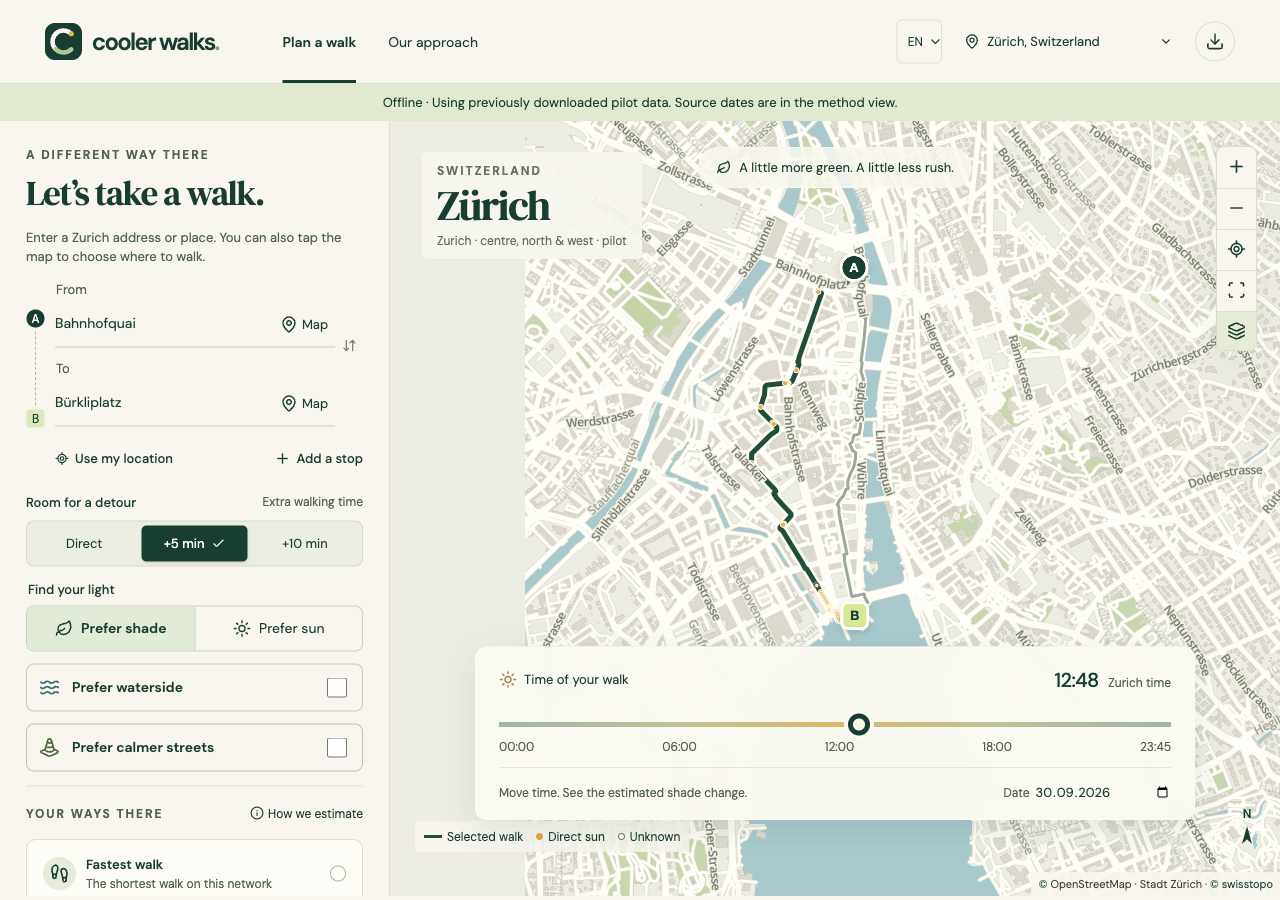
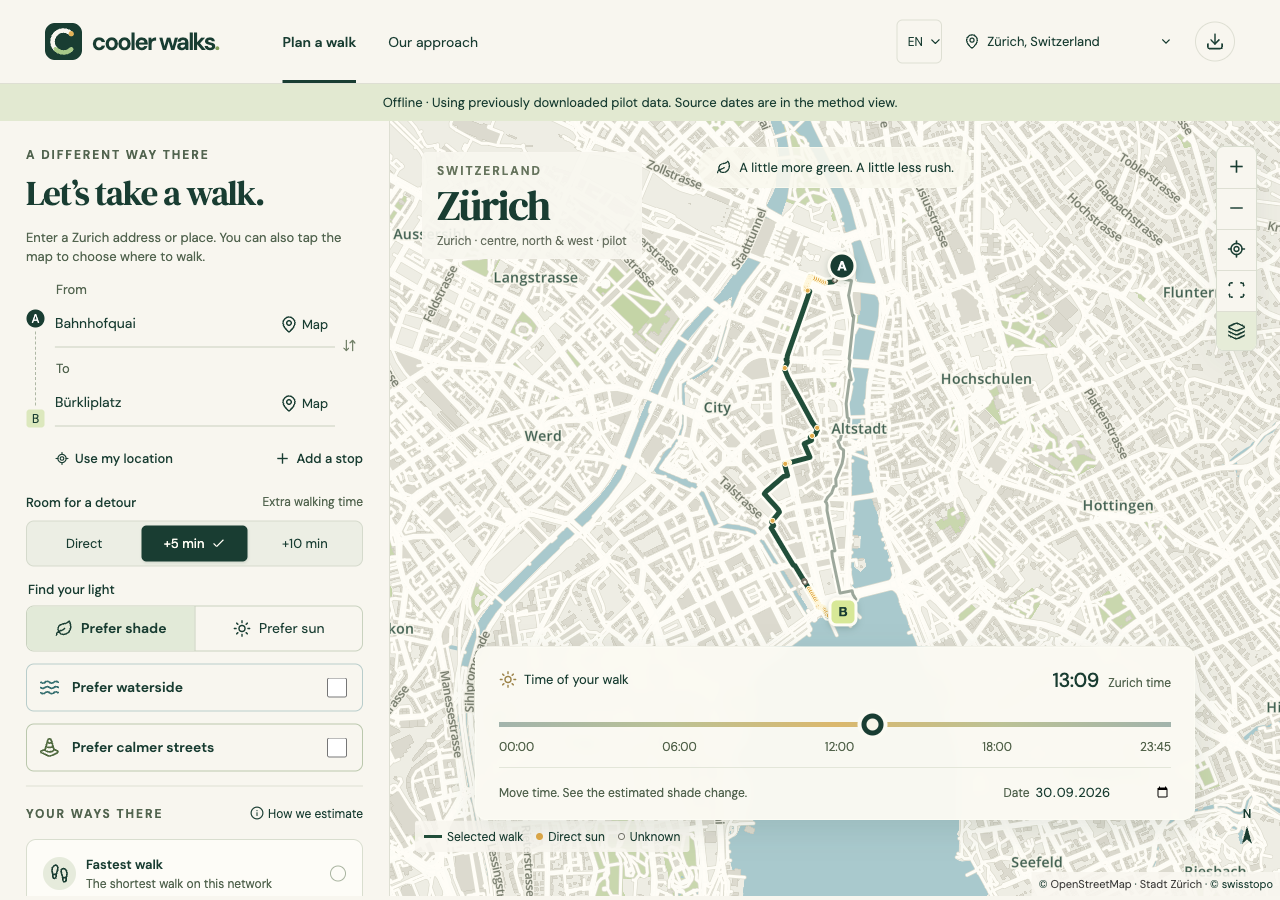
Render city overviews efficiently and shard browser regression checks

diff --git a/src/components/Map.tsx b/src/components/Map.tsx
@@ -132,13 +132,61 @@ export function WalkingMap({
             {
               id: 'building',
               type: 'fill',
+              minzoom: 14,
               source: 'base',
               filter: ['==', ['get', 'kind'], 'building'],
               paint: { 'fill-color': '#dcdacf', 'fill-outline-color': '#d1cfc2' },
             },
+            // At city scale, show the street structure without constructing
+            // building/path buckets for every block in the full coverage area.
+            ...(['overview-road-case', 'overview-roads'] as const).map((id) => ({
+              id,
+              type: 'line' as const,
+              source: 'base',
+              maxzoom: 14,
+              filter: [
+                'all',
+                ['==', ['get', 'kind'], 'road'],
+                [
+                  'in',
+                  ['get', 'highway'],
+                  [
+                    'literal',
+                    [
+                      'motorway',
+                      'motorway_link',
+                      'trunk',
+                      'trunk_link',
+                      'primary',
+                      'primary_link',
+                      'secondary',
+                      'secondary_link',
+                      'tertiary',
+                      'tertiary_link',
+                      'residential',
+                      'unclassified',
+                      'living_street',
+                    ],
+                  ],
+                ],
+              ] as maplibregl.FilterSpecification,
+              paint: {
+                'line-color': id === 'overview-road-case' ? '#dddccf' : '#fffdf7',
+                'line-width': [
+                  'interpolate',
+                  ['linear'],
+                  ['zoom'],
+                  11,
+                  id === 'overview-road-case' ? 1.5 : 0.6,
+                  14,
+                  id === 'overview-road-case' ? 4 : 2.5,
+                ] as maplibregl.ExpressionSpecification,
+              },
+            })),
             {
               id: 'road-case',
               type: 'line',
+              minzoom: 14,
               source: 'base',
               filter: ['==', ['get', 'kind'], 'road'],
               layout: { 'line-cap': 'round', 'line-join': 'round' },
@@ -150,6 +198,7 @@ export function WalkingMap({
             {
               id: 'roads',
               type: 'line',
+              minzoom: 14,
               source: 'base',
               filter: ['==', ['get', 'kind'], 'road'],
               layout: { 'line-cap': 'round', 'line-join': 'round' },
@@ -161,6 +210,7 @@ export function WalkingMap({
             {
               id: 'paths',
               type: 'line',
+              minzoom: 14,
               source: 'base',
               filter: [
                 'in',

diff --git a/tests/browser/zurich-search.spec.ts b/tests/browser/zurich-search.spec.ts
@@ -8,8 +8,10 @@ test('Zurich addresses, beta labels, direct map selection and honest outside cov
   await page.setViewportSize({ width: 1440, height: 1000 });
   await page.goto('/?view=planner');
   await expect(page.getByRole('button', { name: /Fastest walk/ })).toBeVisible();
+  const overviewStarted = Date.now();
   await page.getByRole('button', { name: 'Show whole coverage', exact: true }).click();
   await expect(page.locator('.map-shell')).toHaveAttribute('data-map-settled', 'true');
+  console.log(`Zurich whole-area map settled in ${Date.now() - overviewStarted} ms`);
   await page.screenshot({ path: 'docs/screenshots/desktop-zurich-coverage.png' });
   const from = page.getByRole('combobox', { name: 'From', exact: true });
   const to = page.getByRole('combobox', { name: 'To', exact: true });

diff --git a/docs/platform.md b/docs/platform.md
@@ -121,4 +121,12 @@ The 57.77 km² area passes 64 unit/model/search/download checks, five Python sou
 
 The larger data exposed WebView heap exhaustion on the existing 2 GB Android emulator. The app now loads/decodes routing data in its dedicated worker, consumes projected geometry without duplicate arrays, limits tree display to the current street-scale viewport, bounds the map tile cache and disposes workers/maps on navigation. Complete source trees remain in scoring. No emulator memory increase or coverage-threshold relaxation was used. The focused offline native checks pass with no page errors; physical-phone performance and current iOS interactions remain untested.
 
[2 lines of base64/hex data omitted]
+
+The caching follow-up `eb9d945` installs 46 interface assets independently of city data, avoiding duplicate Zurich transfers during installation. All four production-page scenarios pass locally and together against the public domain. The checks explicitly wait for both cached city files before offline navigation; route assertion limits are unchanged. Both follow-up native CI builds pass. The hosted catalogue is unchanged, preserving the existing checksum and payload evidence.
+
+The initial full Linux run passed 16 of 17 browser scenarios; the whole-Zurich overview exceeded its 45-second render check. Its trace shows unfinished overview tiles, with no route failure. A cartographic follow-up removes building/minor-path rendering below zoom 14 and keeps the street network, parks, water and neighbourhood labels at overview scale. Eight relevant local browser scenarios pass with unchanged limits (1.7 minutes), including all city maps, both Zurich address flows, winter sun and accessibility. The detailed model and street-scale map remain unchanged. The Android check now also exercises the whole-area view.
+
+Browser CI now distributes the same 17 scenarios across four isolated Linux jobs after shared model/data/format/build checks. Each runner retains one browser worker and the same assertion/flow limits; no scenario is skipped. Screenshot and failure-trace artifacts carry a shard suffix. This shortens the feedback cycle for the larger maps without making rendering compete within one runner.
+
+The overview follow-up also passes on the same 2 GB Android emulator: whole-area rendering, offline reload, historical counters, German Oerlikon address routing with a settled map, and beta city switching, with zero page errors. The versioned local APK above is the tested follow-up build.

diff --git a/docs/progress.md b/docs/progress.md
@@ -4,7 +4,7 @@
 
 Expanded Zurich to **57.77 km² (2.65×)**, including Oerlikon and Altstetten. The official municipal polygon now clips the walking boundary; conservative per-edge clearance keeps missing surroundings unknown. Six building archives pass official checksums and source-polygon coverage checks. Open structures, construction and objects without ground geometry remain uncertainty masks. The larger bundle contains 45,795 in-area official addresses and 144 historical vehicle counters at 80 sites. Other cities remain beta. [Source audit, data preparation and real examples](zurich-north-west.md).
 
-Local verification passes **64 unit/model tests**, **five Python source checks**, complete graph/route checks across all four cities, moving shadows, night, sun/water preferences and zero detour. Production build and all five pack hashes pass. All 17 browser scenarios and focused Android offline route/address/count checks pass. Worker-owned geometry and viewport map rendering resolve the larger model’s emulator memory failure. Published to **https://coolerwalks.ch/** from `2c5f7a0`. All hosted pack hashes and decompressed payloads match the tested data. Actual Chrome PWA installation, standalone launch, offline Oerlikon addresses/routes/map selection and recovery checks pass. Android and iOS CI builds pass; final Linux browser and public-page verification are being recorded. A production follow-up separates interface installation from the larger city cache, avoiding duplicate first-load downloads; all four local production-page checks pass.
+Local verification passes **64 unit/model tests**, **five Python source checks**, complete graph/route checks across all four cities, moving shadows, night, sun/water preferences and zero detour. Production build and all five pack hashes pass. All 17 browser scenarios and focused Android offline route/address/count checks pass. Worker-owned geometry and viewport map rendering resolve the larger model’s emulator memory failure. Published to **https://coolerwalks.ch/** from `2c5f7a0`. All hosted pack hashes and decompressed payloads match the tested data. Actual Chrome PWA installation, standalone launch, offline Oerlikon addresses/routes/map selection and recovery checks pass. Android and iOS CI builds pass; all four live production-page checks pass after the caching follow-up `eb9d945`. A Linux whole-area rendering timeout led to a lighter city overview; eight relevant local browser flows and the expanded Android overview/offline regression pass. The final Linux rerun is being recorded. A production follow-up separates interface installation from the larger city cache, avoiding duplicate first-load downloads; all four local production-page checks pass.
 
 ## Previous milestone: Zurich focus, expanded map and addresses · 0.7.0
 

diff --git a/docs/hosting.md b/docs/hosting.md
@@ -126,4 +126,4 @@ The public catalogue reports `zurich-2026-09-30-v7`; its Zurich pack is **16,564
 
 The first production browser/PWA attempt hit the existing 30-second fetch timeout while several large transfer checks ran concurrently. A separate compressed Zurich transfer completed in 8.54 seconds (11,695,021 transferred bytes). Sequential verification kept the original assertions/time limits: Chrome installed and launched the PWA, cold-reopened saved maps, and calculated the Oerlikon address journey offline in German, including a settled map and map-point actions. No manifest/installability/page errors remained. Slow or contended connections remain a risk for these large initial city bundles; smaller streamed/vector-tile data is a future performance milestone. See [PWA evidence](pwa-validation.json).
 
-A release follow-up separates service-worker interface installation from visited-city downloads. The old `cache.addAll` batch fetched the 100 MB expanded Zurich model/map alongside the planner’s identical requests. Production traces showed duplicated transfers and interrupted installations. The interface now activates independently, and the existing city-cache handoff saves data after loading. Four local production-page scenarios pass with explicit checks that both actual city files are cached before offline tests; no timeout was relaxed. Live verification is repeated on the follow-up deployment.
+A release follow-up separates service-worker interface installation from visited-city downloads. The old `cache.addAll` batch fetched the 100 MB expanded Zurich model/map alongside the planner’s identical requests. Production traces showed duplicated transfers and interrupted installations. The interface now activates independently, and the existing city-cache handoff saves data after loading. Four local production-page scenarios pass with explicit checks that both actual city files are cached before offline tests; no timeout was relaxed. The follow-up is published from `eb9d9456e088b91d7cbcdaae696752594927b9b8`. All four live production-page scenarios pass together (1.4 minutes), including real CSP, no-JavaScript public pages, accessibility and English/German offline navigation. The deployed worker precaches 46 interface assets and no city data; its catalogue exactly matches the already verified downloads. See [deployment evidence](releases/0.8.0-cache-installation.json).

diff --git a/docs/design.md b/docs/design.md
@@ -61,3 +61,5 @@ The city selector, coverage view and downloads now prioritize Switzerland; every
 The existing atlas design now displays the larger, municipality-clipped Zurich boundary. The whole-area control exposes the reach to Oerlikon and Altstetten; detailed planning retains readable street labels, separate tree positions and route casing. The coverage label is translated in both languages. Actual desktop Altstetten, German phone Oerlikon and tablet outside-area screenshots were inspected; the existing spacing and controls remain usable. Unknown open structures and municipal-edge gaps stay visually distinct from sun and shade.
 
 For the expanded extent, neighbourhood labels use actual OSM names. Individual tree dots appear at street scale (zoom 14+) and load only around the viewport; the complete inventory still informs route greenery. This keeps phone maps lighter without moving or inventing trees. Map and route workers release resources explicitly during reload.
+
+City overview maps show neighbourhoods, waterways, parks and the street structure. Building footprints, individual trees and minor paths appear from zoom 14. This reduces clutter and expensive full-city geometry rendering; detailed route views and the complete routing/shadow model retain all data. The Linux coverage-view check exposed the need for this map hierarchy.
